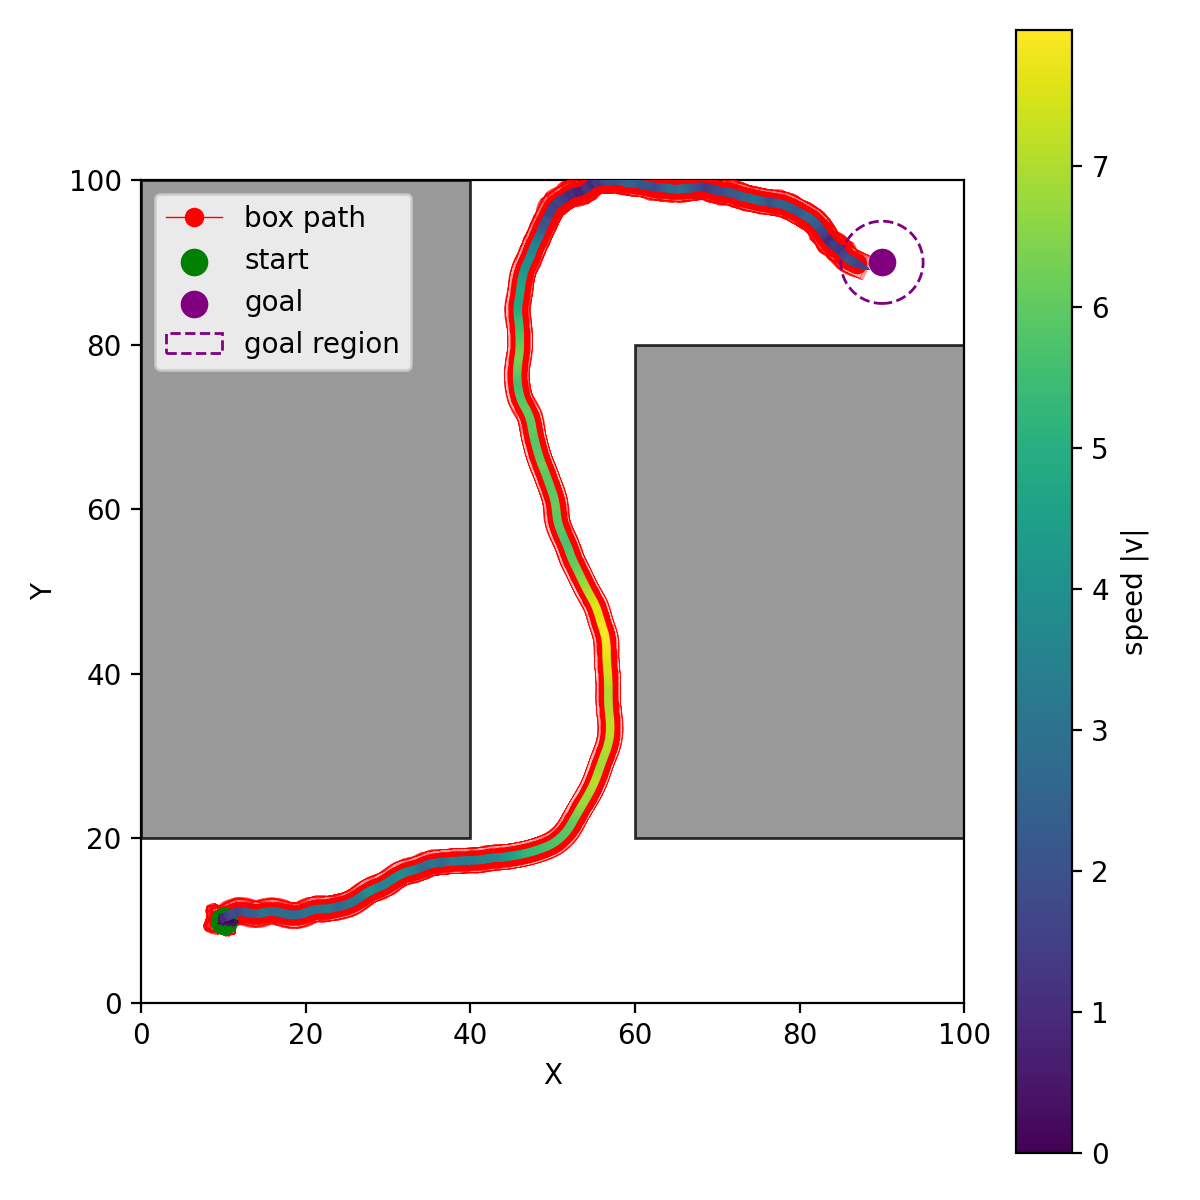
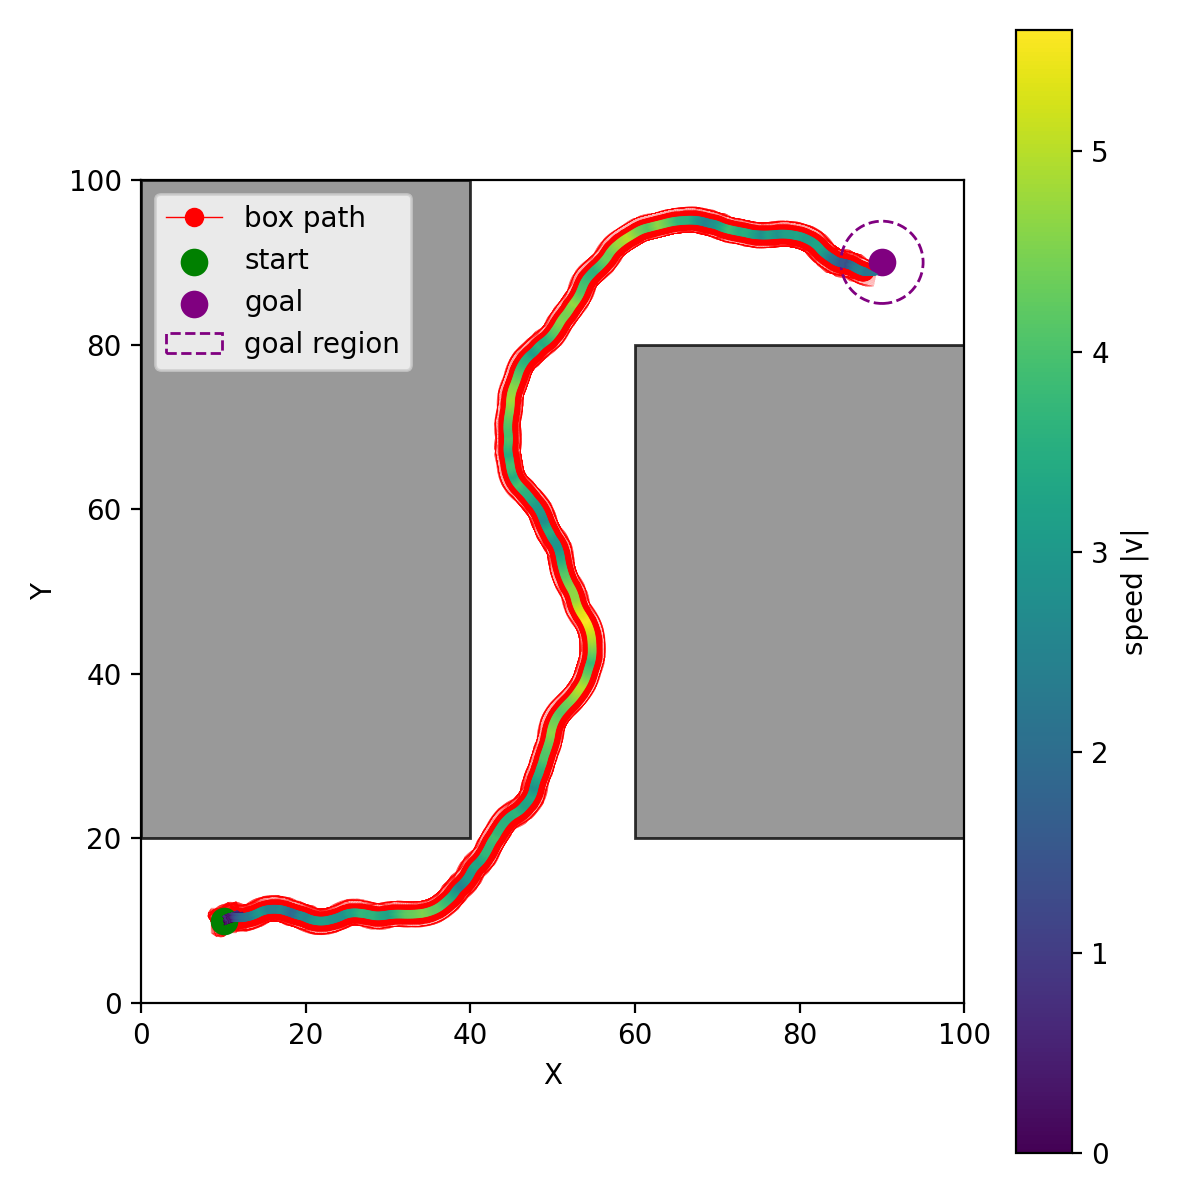
Update car env checking resolution

diff --git a/project4_src_new/src/Project4Car.cpp b/project4_src_new/src/Project4Car.cpp
@@ -123,7 +123,7 @@ ompl::control::SimpleSetupPtr createCar(std::vector<Rectangle> & obstacles )
     auto si = ss->getSpaceInformation();
     si->setPropagationStepSize(0.02);
     si->setMinMaxControlDuration(1, 20);
-    si->setStateValidityCheckingResolution(0.005);
+    si->setStateValidityCheckingResolution(0.003);
 
     // Set state validity checker
     const double carLength = 3;
